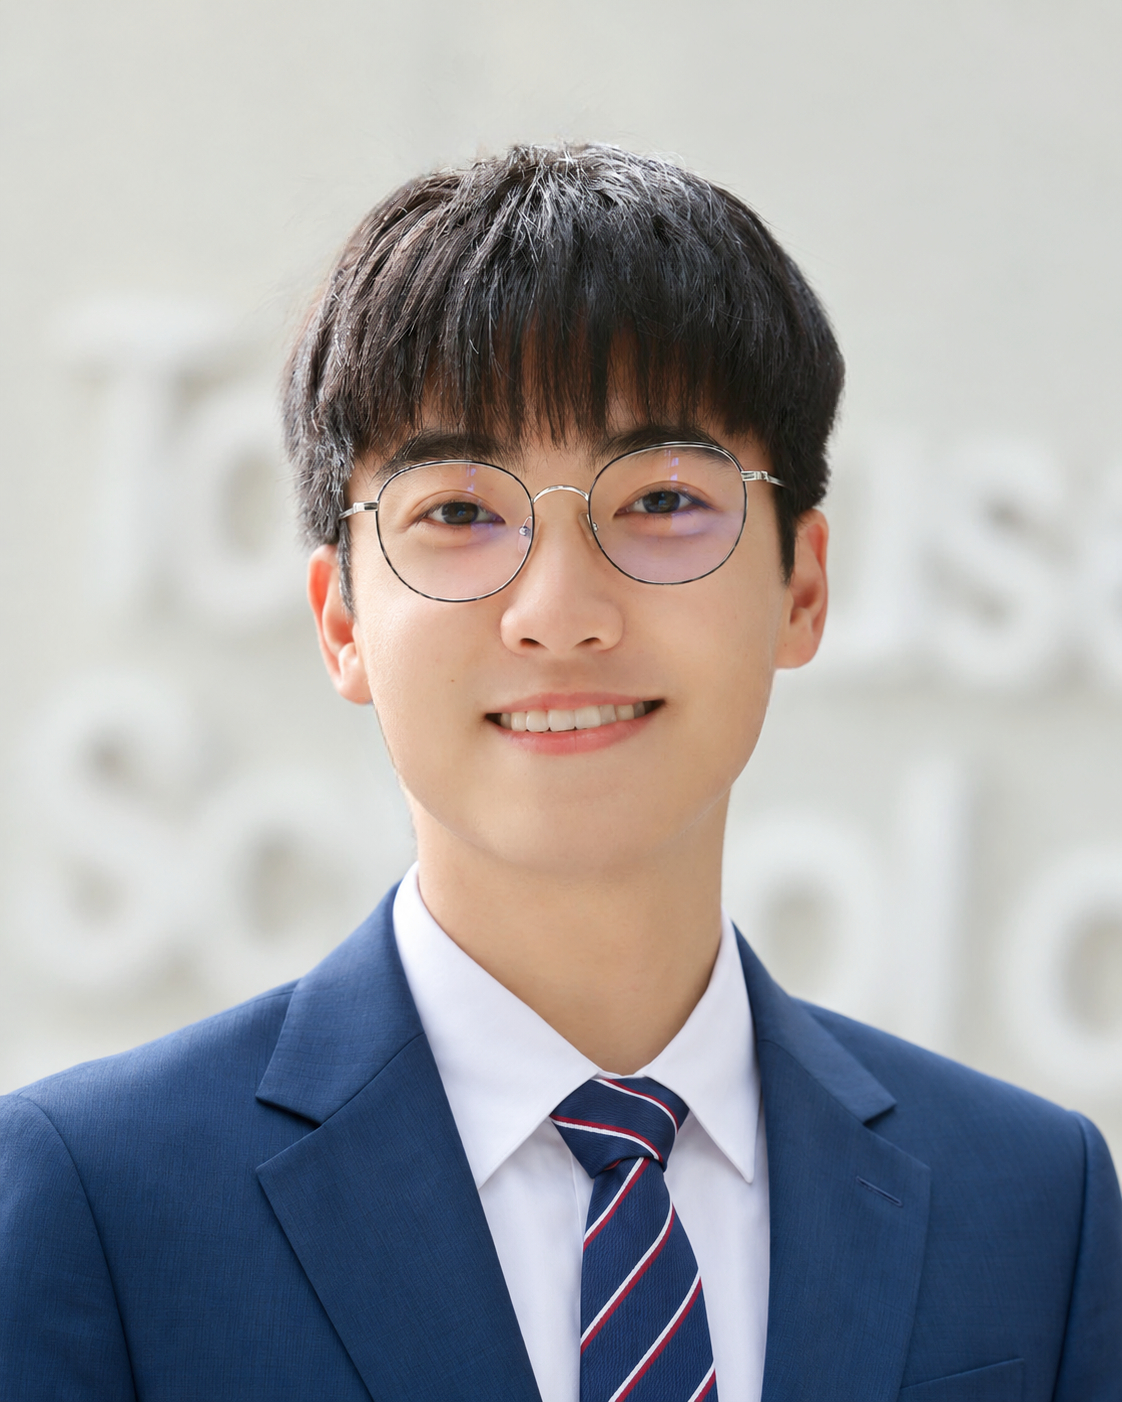
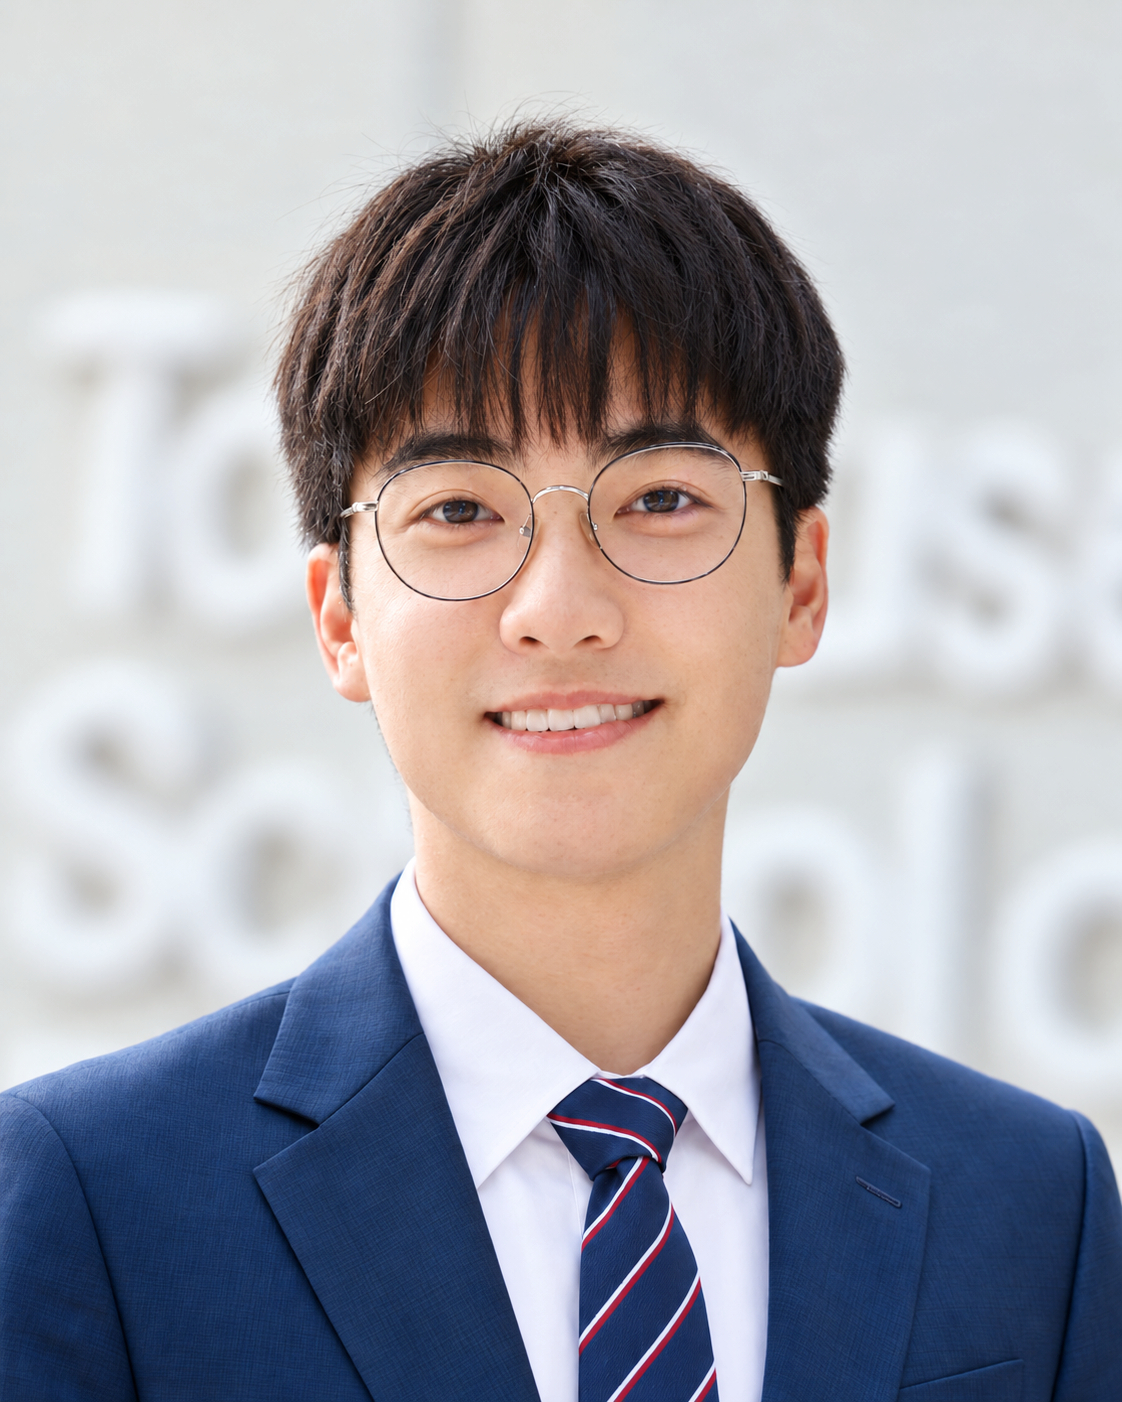
Use portrait_30yr_A_meitu portrait

diff --git a/index.html b/index.html
@@ -16,7 +16,7 @@
 <meta property="og:url" content="https://hanlin-zhao.github.io/" />
 <meta property="og:title" content="Hanlin Zhao" />
 <meta property="og:description" content="PhD candidate in Economics at Toulouse School of Economics. Empirical industrial organization, digital economics, quantitative marketing and structural econometrics." />
-<meta property="og:image" content="https://hanlin-zhao.github.io/assets/portrait.png?v=45a8ade0" />
+<meta property="og:image" content="https://hanlin-zhao.github.io/assets/portrait.jpg?v=39b4a2e7" />
 <meta property="og:image:alt" content="Portrait of Hanlin Zhao" />
 <meta name="twitter:card" content="summary_large_image" />
 
@@ -30,7 +30,7 @@
   "@type": "Person",
   "name": "Hanlin Zhao",
   "url": "https://hanlin-zhao.github.io/",
-  "image": "https://hanlin-zhao.github.io/assets/portrait.png?v=45a8ade0",
+  "image": "https://hanlin-zhao.github.io/assets/portrait.jpg?v=39b4a2e7",
   "jobTitle": "PhD Candidate in Economics",
   "email": "mailto:hanlin.zhao@tse-fr.eu",
   "affiliation": {
@@ -68,7 +68,7 @@
 <main id="main">
   <section class="hero shell" id="top">
     <div class="hero-visual">
-      <img class="portrait" src="assets/portrait.png?v=45a8ade0" width="1122" height="1402"
+      <img class="portrait" src="assets/portrait.jpg?v=39b4a2e7" width="1122" height="1402"
            alt="Hanlin Zhao" fetchpriority="high" />
     </div>
 
